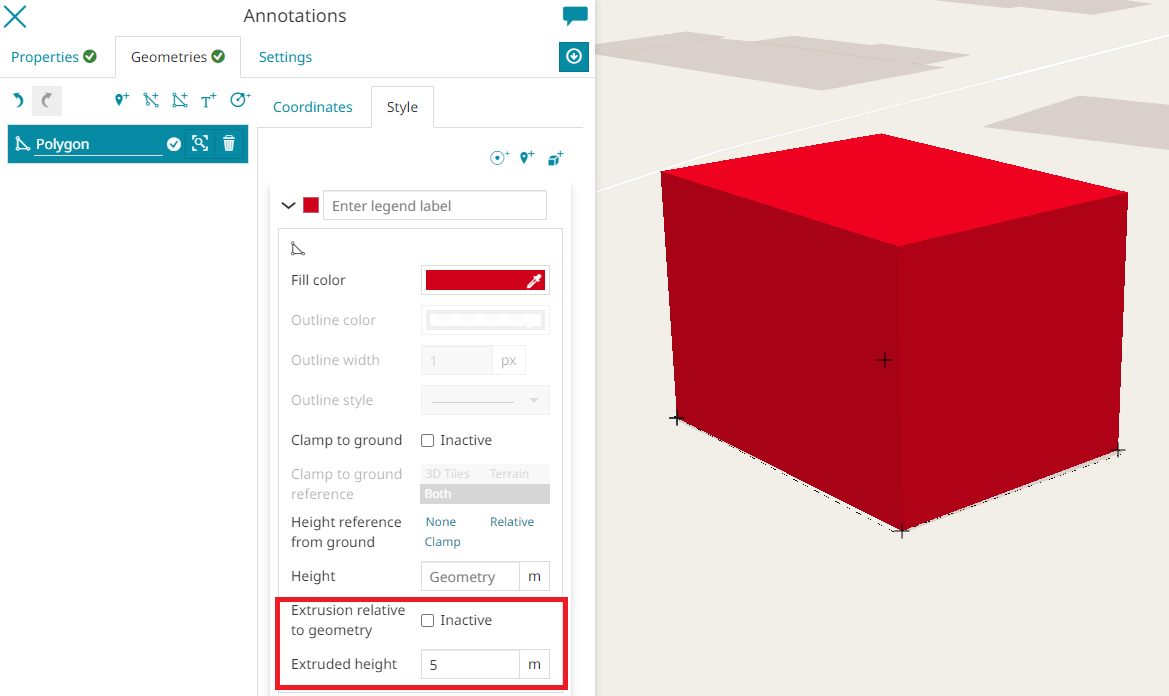
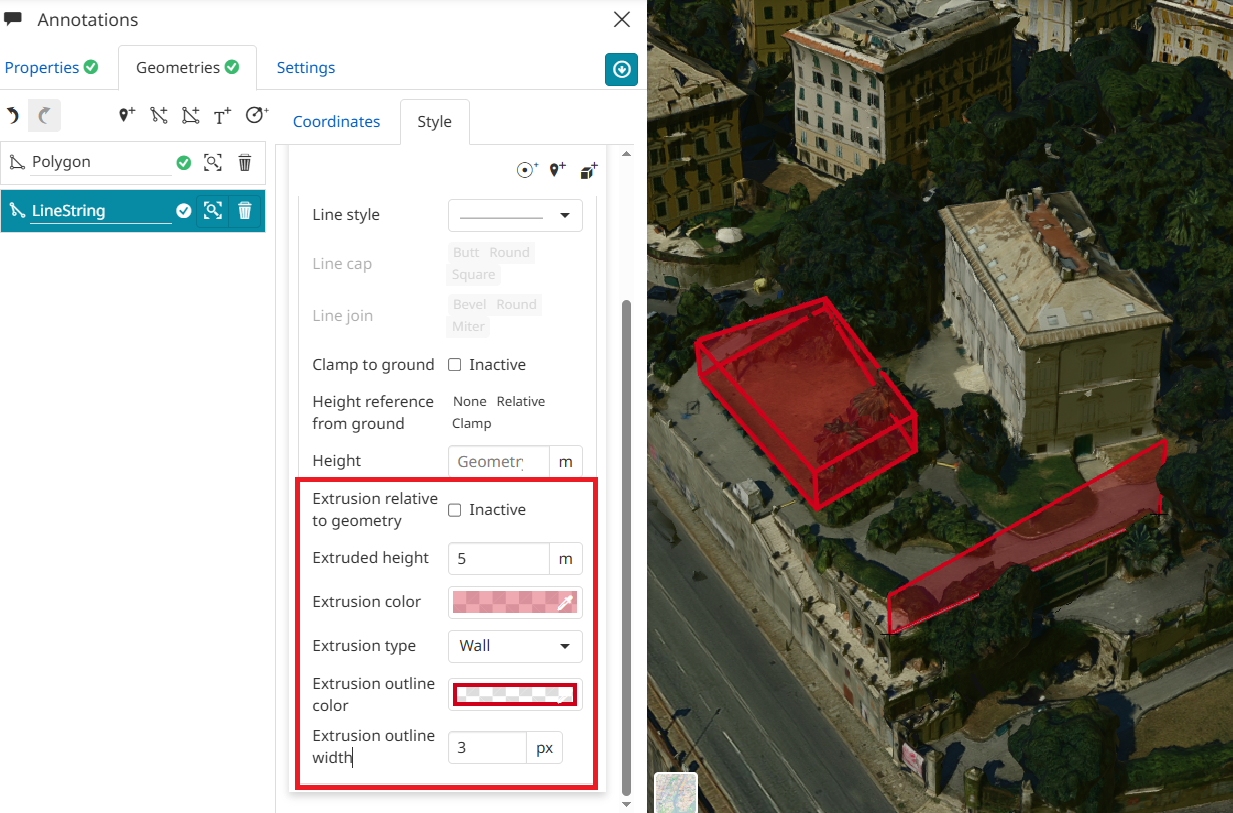
add_12275

diff --git a/docs/user-guide/annotations.md b/docs/user-guide/annotations.md
@@ -177,6 +177,6 @@ Furthermore, for the [3D Navigation](navigation-toolbar.md#3d-navigation), [MapS
 
 <img src="../img/annotations/polygon-type.jpg" class="ms-docimage">
 
-* **Extrusion Height** (available for Line and Fill geometries) to configure the height value of the feature to be extruded. It is also possible to enable/disable the **Extrusion relative to geometry** (from the highest point of the feature geometry) and, only for the *Line* geometries, the user can customize the **Extrusion color** and the **Extrusion type**, choosing between `Wall`, `Circle` and `Square` options, for the extruded features.
+* **Extrusion Height** (available for Line and Fill geometries) to configure the height value of the feature to be extruded. It is also possible to enable/disable the **Extrusion relative to geometry** (from the highest point of the feature geometry) and customize the *Extrusion color*, the *Extrusion Outline color* and the *Extrusion Outline width*. For the *Line* geometries only, the user can customize the **Extrusion type**, choosing between `Wall`, `Circle` and `Square` options, for the extruded features.
 
 <img src="../img/annotations/extrusion-geometry.jpg" class="ms-docimage">
